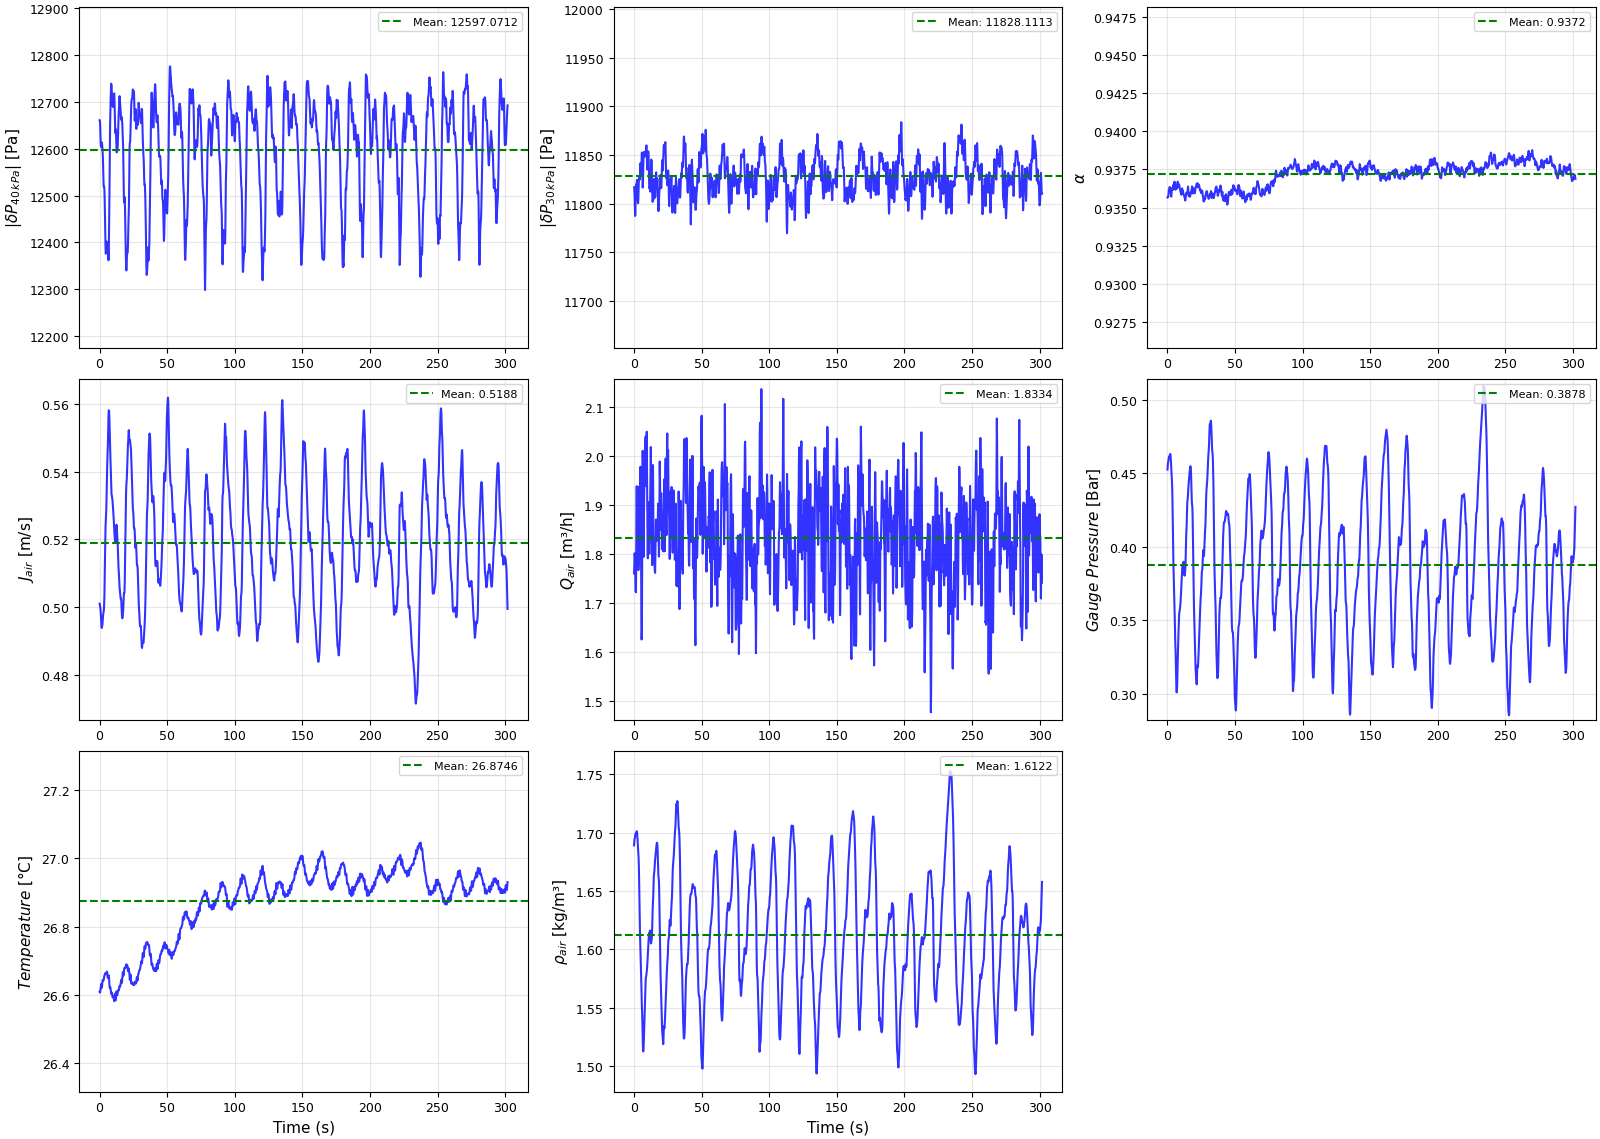
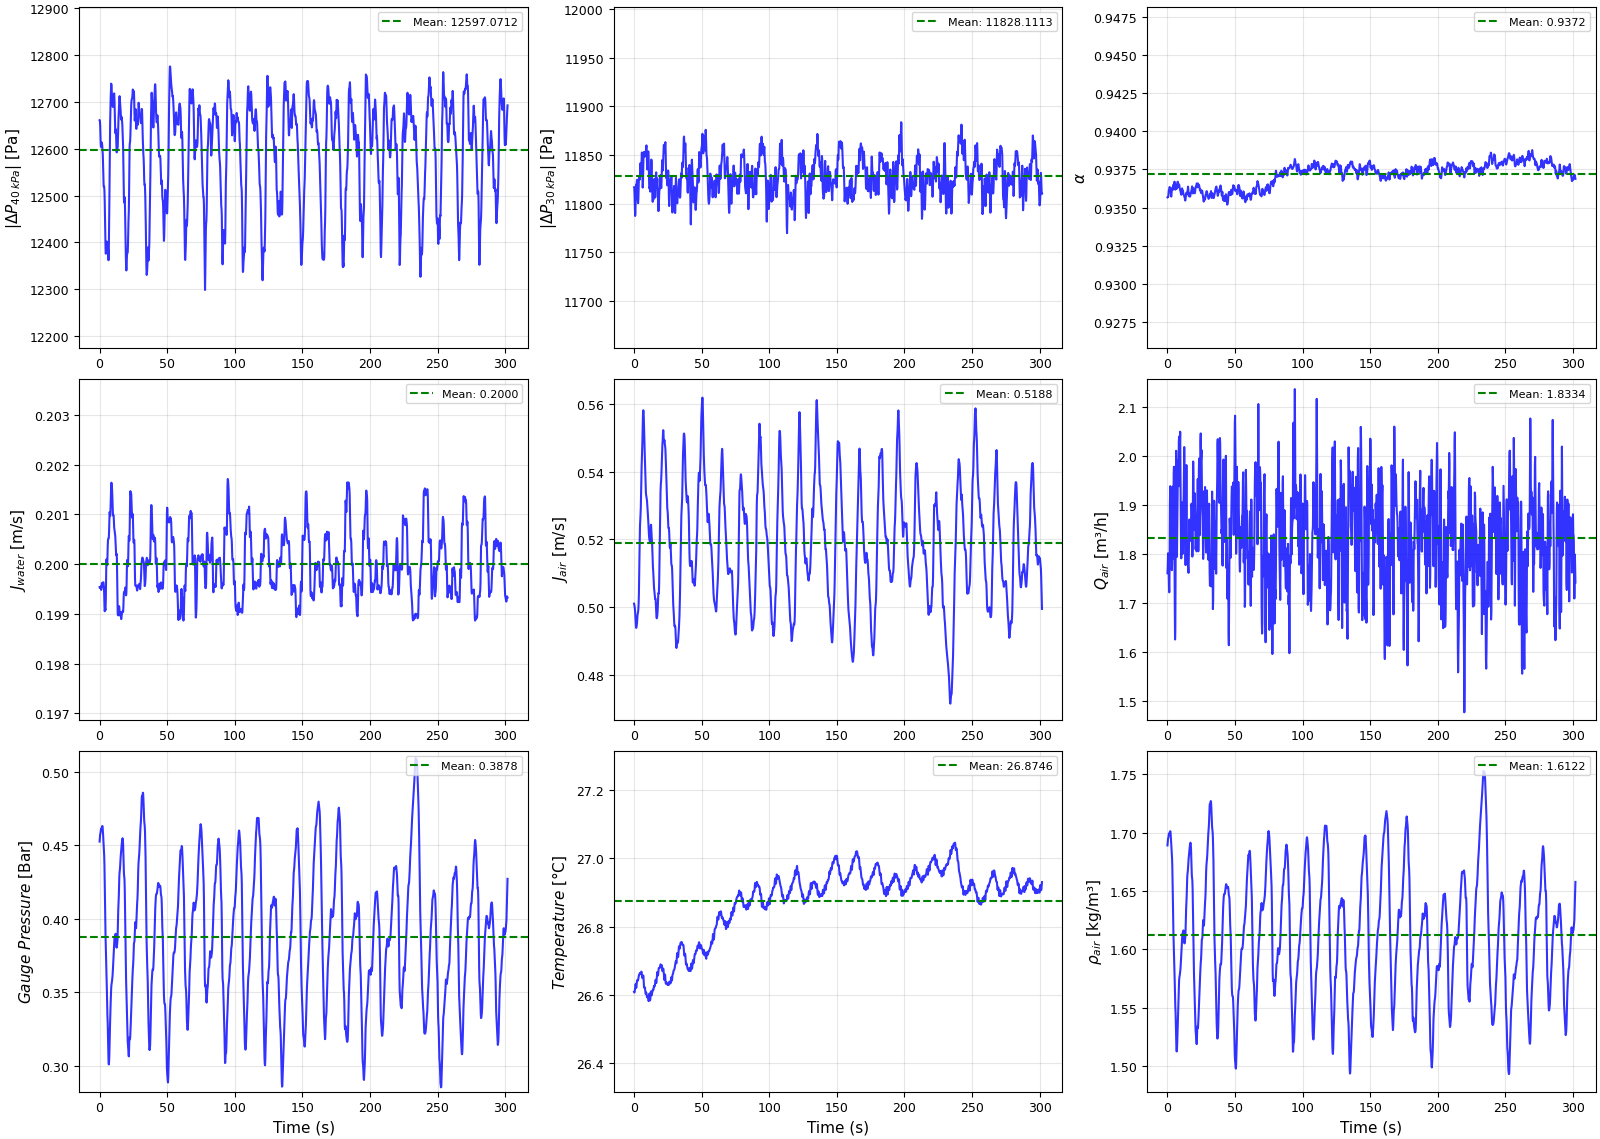
identificacao de parametros vindos do nome do arquivo tais como fluidos de trabalho, direcao de escoamento, ID, e inclinação da plataforma

diff --git a/exp_unc.py b/exp_unc.py
@@ -12,19 +12,18 @@ from CoolProp.CoolProp import PropsSI
 file_path = 'example/AWD45/AWD45ID01/AWD45ID01' #Insira o caminho do arquivo a ser analisado
 variavel_criterio = 'J Ar'          # Escolha a variável de critério para realizar o janelamento - Digite o nome exato da coluna para análise
 
-theta = 45      # Inclinação da plataforma
 L = 1.7         # m comprimento entre as tomadas de diferencial de pressão
 g = 9.81        # m/s² 
 
 sensor_Yokogawa = 'PDT-M-0101D-30Kpa_mA'
+sensor_Endress = 'PDT-M-0101-40kPa_mA'
 rho_s = 962     # kg/m³
-direction ='Downward'
+
 ### Colunas de interesse -> Insira o nome das colunas a plotar e avaliar do arquivo .dat
 # Lista de colunas para análise: [nome_coluna, apelido, unidade]
 colunas_analise = [
-    
-    ['PDT-M-0101-40kPa_mA', r'|\delta P_{40\,kPa}|', r'[Pa]'],
-    ['PDT-M-0101D-30Kpa_mA', r'|\delta P_{30\,kPa}|', r'[Pa]'],
+    [sensor_Endress, r'|\Delta P_{40\,kPa}|', r'[Pa]'],
+    [sensor_Yokogawa, r'|\Delta P_{30\,kPa}|', r'[Pa]'],
     ['Alpha', r'\alpha', r''],
     ['J Agua', r'J_{water}', r'[m/s]'],
     ['J Ar', r'J_{air}', r'[m/s]'],
@@ -38,7 +37,7 @@ colunas_analise = [
 # Valores de calibração do densitômetro
 I_g = 253892                     # Insira a intensidade padrão para o gás (Calibração do densitômetro)
 I_f = 151174                      # Insira a intensidade padrão para o líquido (Calibração do densitômetro)
-#
+
 p_PIT_M_0101 = 0.2                  # Insira a precisão de medição do sensor de pressão
 P_PDT_M_0101_40kPa = 0.1            # Insira a precisão de medição do diferencial de pressão de 40kPa
 p_PDT_M_0101D_30Kpa = 0.055         # Insira a precisão de medição do diferencial de pressão de 30kPa  0.055% do span
@@ -208,7 +207,8 @@ def read_file(file_path):
     return df, data_teste
 
 def save_results(df, coluna_escolhida, start_idx, end_idx, min_std, media_janela, 
-                min_window_size, max_window_size, best_window_size, file_path, data_teste, nomes=None, medias=None, desvios=None, uAs=None):
+                min_window_size, max_window_size, best_window_size, file_path, data_teste, 
+                fluid_1, fluid_2, direction, theta, ID, nomes=None, medias=None, desvios=None, uAs=None):
     """
     Salva os resultados da análise em um arquivo de saída.
     Agora inclui as estatísticas (média, desvio padrão, uA) de cada variável de interesse.
@@ -225,6 +225,11 @@ def save_results(df, coluna_escolhida, start_idx, end_idx, min_std, media_janela
         best_window_size (float): Tamanho ótimo da janela encontrado
         file_path (str): Caminho do arquivo original
         data_teste (str): Data do teste experimental
+        fluid_1 (str): Primeiro fluido do experimento
+        fluid_2 (str): Segundo fluido do experimento
+        direction (str): Direção do escoamento
+        theta (int): Inclinação em graus
+        ID (str): Identificador do ponto experimental
         nomes (list): Lista de nomes das variáveis de interesse
         medias (list): Lista de médias das variáveis
         desvios (list): Lista de desvios padrão das variáveis
@@ -246,6 +251,11 @@ def save_results(df, coluna_escolhida, start_idx, end_idx, min_std, media_janela
         f"Data do teste experimental: {data_teste if data_teste else 'Não encontrada'}",
         f"Data tratamento: {data_atual}",
         f"Arquivo Original: {file_path}",
+        f"ID do ponto: {ID}",
+        f"Fluido 1: {fluid_1}",
+        f"Fluido 2: {fluid_2}",
+        f"Direção do escoamento: {direction}",
+        f"Inclinação (theta): {theta}°",
         f"Coluna Critério: {coluna_escolhida}",
         f"Tamanho Mínimo da Janela: {min_window_size:.1f} segundos",
         f"Tamanho Máximo da Janela: {max_window_size:.1f} segundos",
@@ -378,8 +388,9 @@ def plot_windows(df, colunas, start_idx, end_idx, best_window_size, output_dir, 
         # Ajuste automático do eixo y com margem de 40% (igual ao plot_time_series)
         y_min = y_data.min()
         y_max = y_data.max()
-        margem = 0.40 * (y_max - y_min) if y_max != y_min else 1
-        ax.set_ylim(y_min - margem, y_max + margem)
+        margem_max = 1.01*y_max
+        margem_min = 0.99*y_min
+        ax.set_ylim(margem_min, margem_max)
     for idx in range(len(colunas), n_linhas * n_colunas):
         linha = idx // n_colunas
         col = idx % n_colunas
@@ -512,6 +523,40 @@ def calc_frictional_pressure_gradient(df, colunas, start_idx, end_idx, best_wind
 
     return dP_F_df # Retorna o DataFrame
 
+def extract_info_from_filename(filename):
+    """
+    Extrai informações do nome do arquivo experimental.
+    Formato esperado: XXX##ID## onde:
+    - X: letra indicando o fluido (A:Air, W:Water, O:Oil, S:SF6)
+    - #: número indicando a inclinação em graus
+    - ID: identificador do ponto experimental
+    """
+    # Dicionários para mapear letras para fluidos e direções
+    fluid_map = {
+        'A': 'Air',
+        'W': 'Water',
+        'O': 'Oil',
+        'S': 'SF6'
+    }
+    
+    direction_map = {
+        'H': 'Horizontal',
+        'U': 'Upward',
+        'D': 'Downward'
+    }
+    
+    # Obtém apenas o nome do arquivo sem extensão e caminho
+    base_name = os.path.splitext(os.path.basename(filename))[0]
+    
+    # Extrai as informações
+    fluid_1 = fluid_map.get(base_name[0], 'Unknown')
+    fluid_2 = fluid_map.get(base_name[1], 'Unknown')
+    direction = direction_map.get(base_name[2], 'Unknown')
+    theta = int(base_name[3:5])  # Extrai os dois dígitos da inclinação
+    ID = base_name[5:]  # Resto do nome é o ID
+    
+    return fluid_1, fluid_2, direction, theta, ID
+
 # Exemplo de uso:
 if __name__ == "__main__":
     
@@ -520,6 +565,15 @@ if __name__ == "__main__":
     print("Dimensões do DataFrame:", df.shape)
     print("\nNomes das colunas:")
     print(df.columns.tolist())
+    
+    # Extrai informações do nome do arquivo
+    fluid_1, fluid_2, direction, theta, ID = extract_info_from_filename(file_path)
+    print(f"\nInformações extraídas do nome do arquivo:")
+    print(f"Fluido 1: {fluid_1}")
+    print(f"Fluido 2: {fluid_2}")
+    print(f"Direção: {direction}")
+    print(f"Inclinação (theta): {theta}°")
+    print(f"ID do ponto: {ID}")
     
     # Obtém o diretório e nome base do arquivo original para salvar as imagens
     output_dir = os.path.dirname(file_path)
@@ -649,6 +703,7 @@ if __name__ == "__main__":
     # Salva os resultados em um arquivo
     save_results(df, coluna_escolhida, start_idx, end_idx, min_std, media_janela,
                 min_window_size, max_window_size, best_window_size, file_path, data_teste,
+                fluid_1, fluid_2, direction, theta, ID,
                 nomes=colunas_analise_filtradas, medias=medias, desvios=desvios, uAs=uAs)
     
     # Plota o gráfico da variável critério e salva a imagem
